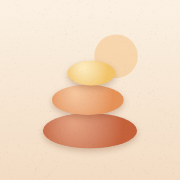
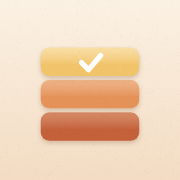
앱 이름을 '착착'으로 바꾸고 블록 아이콘 적용
Claude-Session: https://claude.ai/code/session_01YBAvyA4a7jKa3NeG7Yx8p2

Changed region(s): [[0.2222, 0.1944, 0.7778, 0.8611]]

diff --git a/index.html b/index.html
@@ -3,11 +3,11 @@
 <head>
 <meta charset="utf-8">
 <meta name="viewport" content="width=device-width,initial-scale=1,viewport-fit=cover">
-<title>Pebblo</title>
+<title>착착</title>
 <meta name="theme-color" content="#f2f4f6">
 <meta name="apple-mobile-web-app-capable" content="yes">
 <meta name="mobile-web-app-capable" content="yes">
-<meta name="apple-mobile-web-app-title" content="Pebblo">
+<meta name="apple-mobile-web-app-title" content="착착">
 <script>try { document.documentElement.dataset.mode = localStorage.getItem("schedule-desk.theme.v1") || "light"; document.documentElement.dataset.palette = localStorage.getItem("schedule-desk.palette.v1") || "basic"; } catch (e) { document.documentElement.dataset.mode = "light"; document.documentElement.dataset.palette = "basic"; }</script>
 <link rel="manifest" href="manifest.webmanifest">
 <link rel="icon" href="icon-192.png">
@@ -838,7 +838,7 @@ input[type="date"]::-webkit-date-and-time-value, input[type="time"]::-webkit-dat
 <!-- Sign-in screen -->
 <section class="authview" id="authview" hidden aria-label="로그인">
   <form class="authbox" id="f-auth" novalidate>
-    <div><h1>Pebblo</h1><p class="muted" style="margin:6px 0 0">하루를 조약돌처럼 쌓아 가는 나만의 비서예요. 로그인하면 컴퓨터와 휴대폰에서 같은 내용을 볼 수 있어요.</p></div>
+    <div><h1>착착</h1><p class="muted" style="margin:6px 0 0">일정도 기록도 착착 챙겨 주는 나만의 비서예요. 로그인하면 컴퓨터와 휴대폰에서 같은 내용을 볼 수 있어요.</p></div>
     <button class="btn big gbtn" type="button" id="au-google"><svg viewBox="0 0 48 48" aria-hidden="true"><path fill="#FFC107" d="M43.6 20.5H42V20H24v8h11.3C33.7 32.7 29.2 36 24 36c-6.6 0-12-5.4-12-12s5.4-12 12-12c3.1 0 5.8 1.2 7.9 3.1l5.7-5.7C34 6.1 29.3 4 24 4 12.9 4 4 12.9 4 24s8.9 20 20 20 20-8.9 20-20c0-1.3-.1-2.4-.4-3.5z"/><path fill="#FF3D00" d="m6.3 14.7 6.6 4.8C14.7 15.1 19 12 24 12c3.1 0 5.8 1.2 7.9 3.1l5.7-5.7C34 6.1 29.3 4 24 4 16.3 4 9.7 8.3 6.3 14.7z"/><path fill="#4CAF50" d="M24 44c5.2 0 9.9-2 13.4-5.2l-6.2-5.2C29.2 35.1 26.7 36 24 36c-5.2 0-9.6-3.3-11.3-7.9l-6.5 5C9.5 39.6 16.2 44 24 44z"/><path fill="#1976D2" d="M43.6 20.5H42V20H24v8h11.3c-.8 2.2-2.2 4.2-4.1 5.6l6.2 5.2C37 39.2 44 34 44 24c0-1.3-.1-2.4-.4-3.5z"/></svg>구글로 계속하기</button>
     <div class="ordiv">또는 이메일로</div>
     <div class="field"><label for="au-email">이메일</label><input id="au-email" type="email" class="input" autocomplete="username" inputmode="email"></div>
@@ -2771,7 +2771,7 @@ action 형식:
     } catch (e) {
       const c = e && e.code;
       if (c === "auth/popup-closed-by-user" || c === "auth/cancelled-popup-request") {}
-      else if (c === "auth/credential-already-in-use" || c === "auth/email-already-in-use") note("st-acc-msg", "이 구글 계정은 이미 다른 Pebblo 계정에서 쓰고 있어요. 다른 구글 계정을 골라 주세요.", "err");
+      else if (c === "auth/credential-already-in-use" || c === "auth/email-already-in-use") note("st-acc-msg", "이 구글 계정은 이미 다른 착착 계정에서 쓰고 있어요. 다른 구글 계정을 골라 주세요.", "err");
       else if (c === "auth/provider-already-linked") note("st-acc-msg", "이미 구글 계정이 연결되어 있어요.", "ok");
       else if (c === "auth/requires-recent-login") note("st-acc-msg", "보안을 위해 로그아웃 후 다시 로그인한 다음 연결해 주세요.", "err");
       else if (c === "auth/operation-not-allowed") note("st-acc-msg", "Firebase 콘솔 Authentication → 로그인 방법에서 Google을 켜야 해요.", "err");
@@ -2789,7 +2789,7 @@ action 형식:
   $("bk-export").addEventListener("click", () => {
     const data = { app: "schedule-desk", version: 1, exportedAt: new Date().toISOString(), budget, hours, collections: Object.fromEntries(COLLS.map(c => [c, S[c]])) };
     const url = URL.createObjectURL(new Blob([JSON.stringify(data, null, 1)], { type: "application/json" }));
-    const a = document.createElement("a"); a.href = url; a.download = `Pebblo-백업-${todayStr()}.json`;
+    const a = document.createElement("a"); a.href = url; a.download = `착착-백업-${todayStr()}.json`;
     document.body.appendChild(a); a.click(); a.remove(); setTimeout(() => URL.revokeObjectURL(url), 5000);
     note("bk-msg", "백업 파일을 내려받았어요.", "ok");
   });
@@ -2798,9 +2798,9 @@ action 형식:
     const f = e.target.files && e.target.files[0]; if (!f) return;
     pendingImport = null; $("bk-confirm").hidden = true;
     let data;
-    try { data = JSON.parse(await f.text()); } catch (err) { note("bk-msg", "파일을 읽지 못했어요. Pebblo 백업 파일(.json)인지 확인해 주세요.", "err"); return; }
+    try { data = JSON.parse(await f.text()); } catch (err) { note("bk-msg", "파일을 읽지 못했어요. 착착 백업 파일(.json)인지 확인해 주세요.", "err"); return; }
     const colls = data && data.collections;
-    if (!colls || typeof colls !== "object") { note("bk-msg", "Pebblo 백업 파일이 아니에요.", "err"); return; }
+    if (!colls || typeof colls !== "object") { note("bk-msg", "착착 백업 파일이 아니에요.", "err"); return; }
     const items = {}; let n = 0;
     for (const c of COLLS) {
       items[c] = (Array.isArray(colls[c]) ? colls[c] : []).filter(x => x && typeof x === "object" && typeof x.id === "string" && x.id && !x.id.includes("/")).slice(0, 5000);

diff --git a/sw.js b/sw.js
@@ -1,5 +1,5 @@
 // 오프라인에서도 앱이 열리도록 파일을 저장해 둡니다. 온라인일 때는 항상 최신 파일을 먼저 받습니다.
-const CACHE = "schedule-desk-v16";
+const CACHE = "schedule-desk-v17";
 const SHELL = ["./", "index.html", "firebase-config.js", "manifest.webmanifest", "icon-192.png", "icon-512.png", "apple-touch-icon.png",
   "vendor/firebase-app-compat.js", "vendor/firebase-auth-compat.js", "vendor/firebase-firestore-compat.js"];
 self.addEventListener("install", e => { e.waitUntil(caches.open(CACHE).then(c => c.addAll(SHELL)).then(() => self.skipWaiting())); });

diff --git a/설치안내.md b/설치안내.md
@@ -1,6 +1,6 @@
-# Pebblo(페블로) 설치 안내
+# 착착 설치 안내
 
-Pebblo(페블로)는 파일 몇 개로 된 웹앱입니다. 데이터는 Firebase(구글의 무료 클라우드)에 저장되고, 이메일과 비밀번호로 로그인하면 컴퓨터와 휴대폰에서 같은 내용이 보입니다.
+착착은 파일 몇 개로 된 웹앱입니다. 데이터는 Firebase(구글의 무료 클라우드)에 저장되고, 이메일과 비밀번호로 로그인하면 컴퓨터와 휴대폰에서 같은 내용이 보입니다.
 
 ## 1. Firebase 프로젝트 만들기 (처음 한 번, 10~15분)
 
